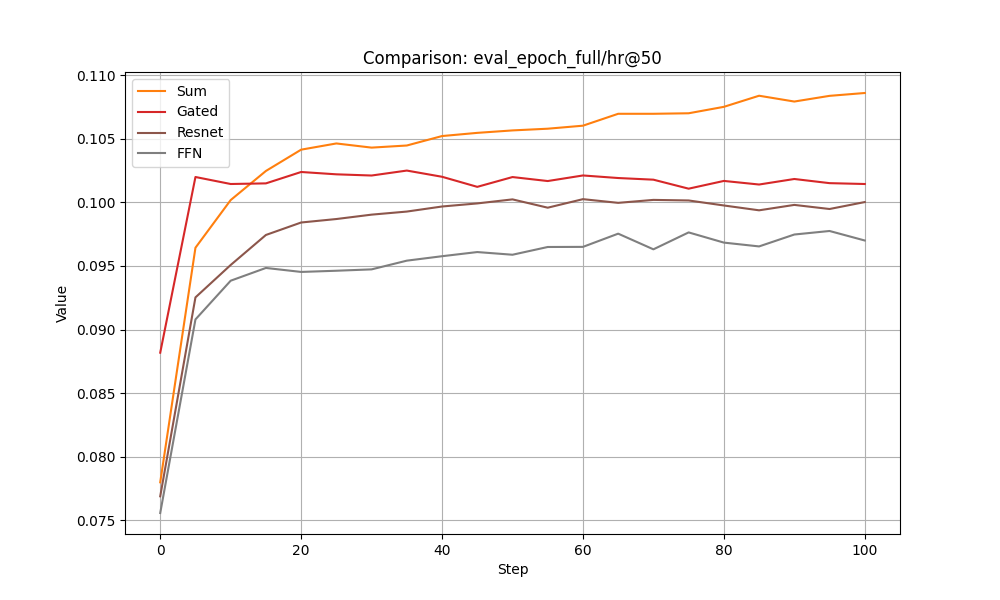
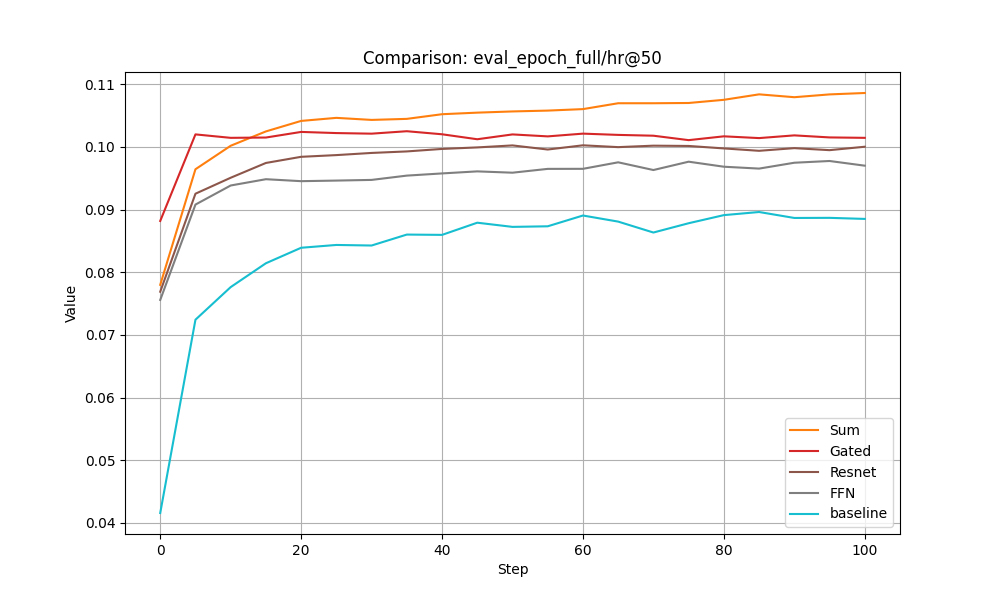
Result 更新

diff --git a/draw_metric_curves.py b/draw_metric_curves.py
@@ -11,7 +11,8 @@ EXP_PATHS = {
     "Sum": "exps/amzn23_office-I50_sum_wd/events.out.tfevents.1763734644.autodl-container-828249b609-a2deb705.36302.0",
     "Gated": "exps/amzn_23_office-I50_gated_wd/events.out.tfevents.1763705763.autodl-container-828249b609-a2deb705.1392.0",
     "Resnet": "exps/amzn_23_office-I50_resnet_wd/events.out.tfevents.1763711526.x1000c0s1b0n1.3606124.0",
-    "FFN": "exps/amzn23_office-I50_concat_mlp_wd/events.out.tfevents.1763753549.I252664a0bd0060187d.13027.0"
+    "FFN": "exps/amzn23_office-I50_concat_mlp_wd/events.out.tfevents.1763753549.I252664a0bd0060187d.13027.0",
+    "baseline": "exps/amzn_23_office-I50_None_wd/events.out.tfevents.1763788179.x1000c0s2b0n1.684447.0",
 }
 
 OUTPUT_DIR='./RESULTS'
